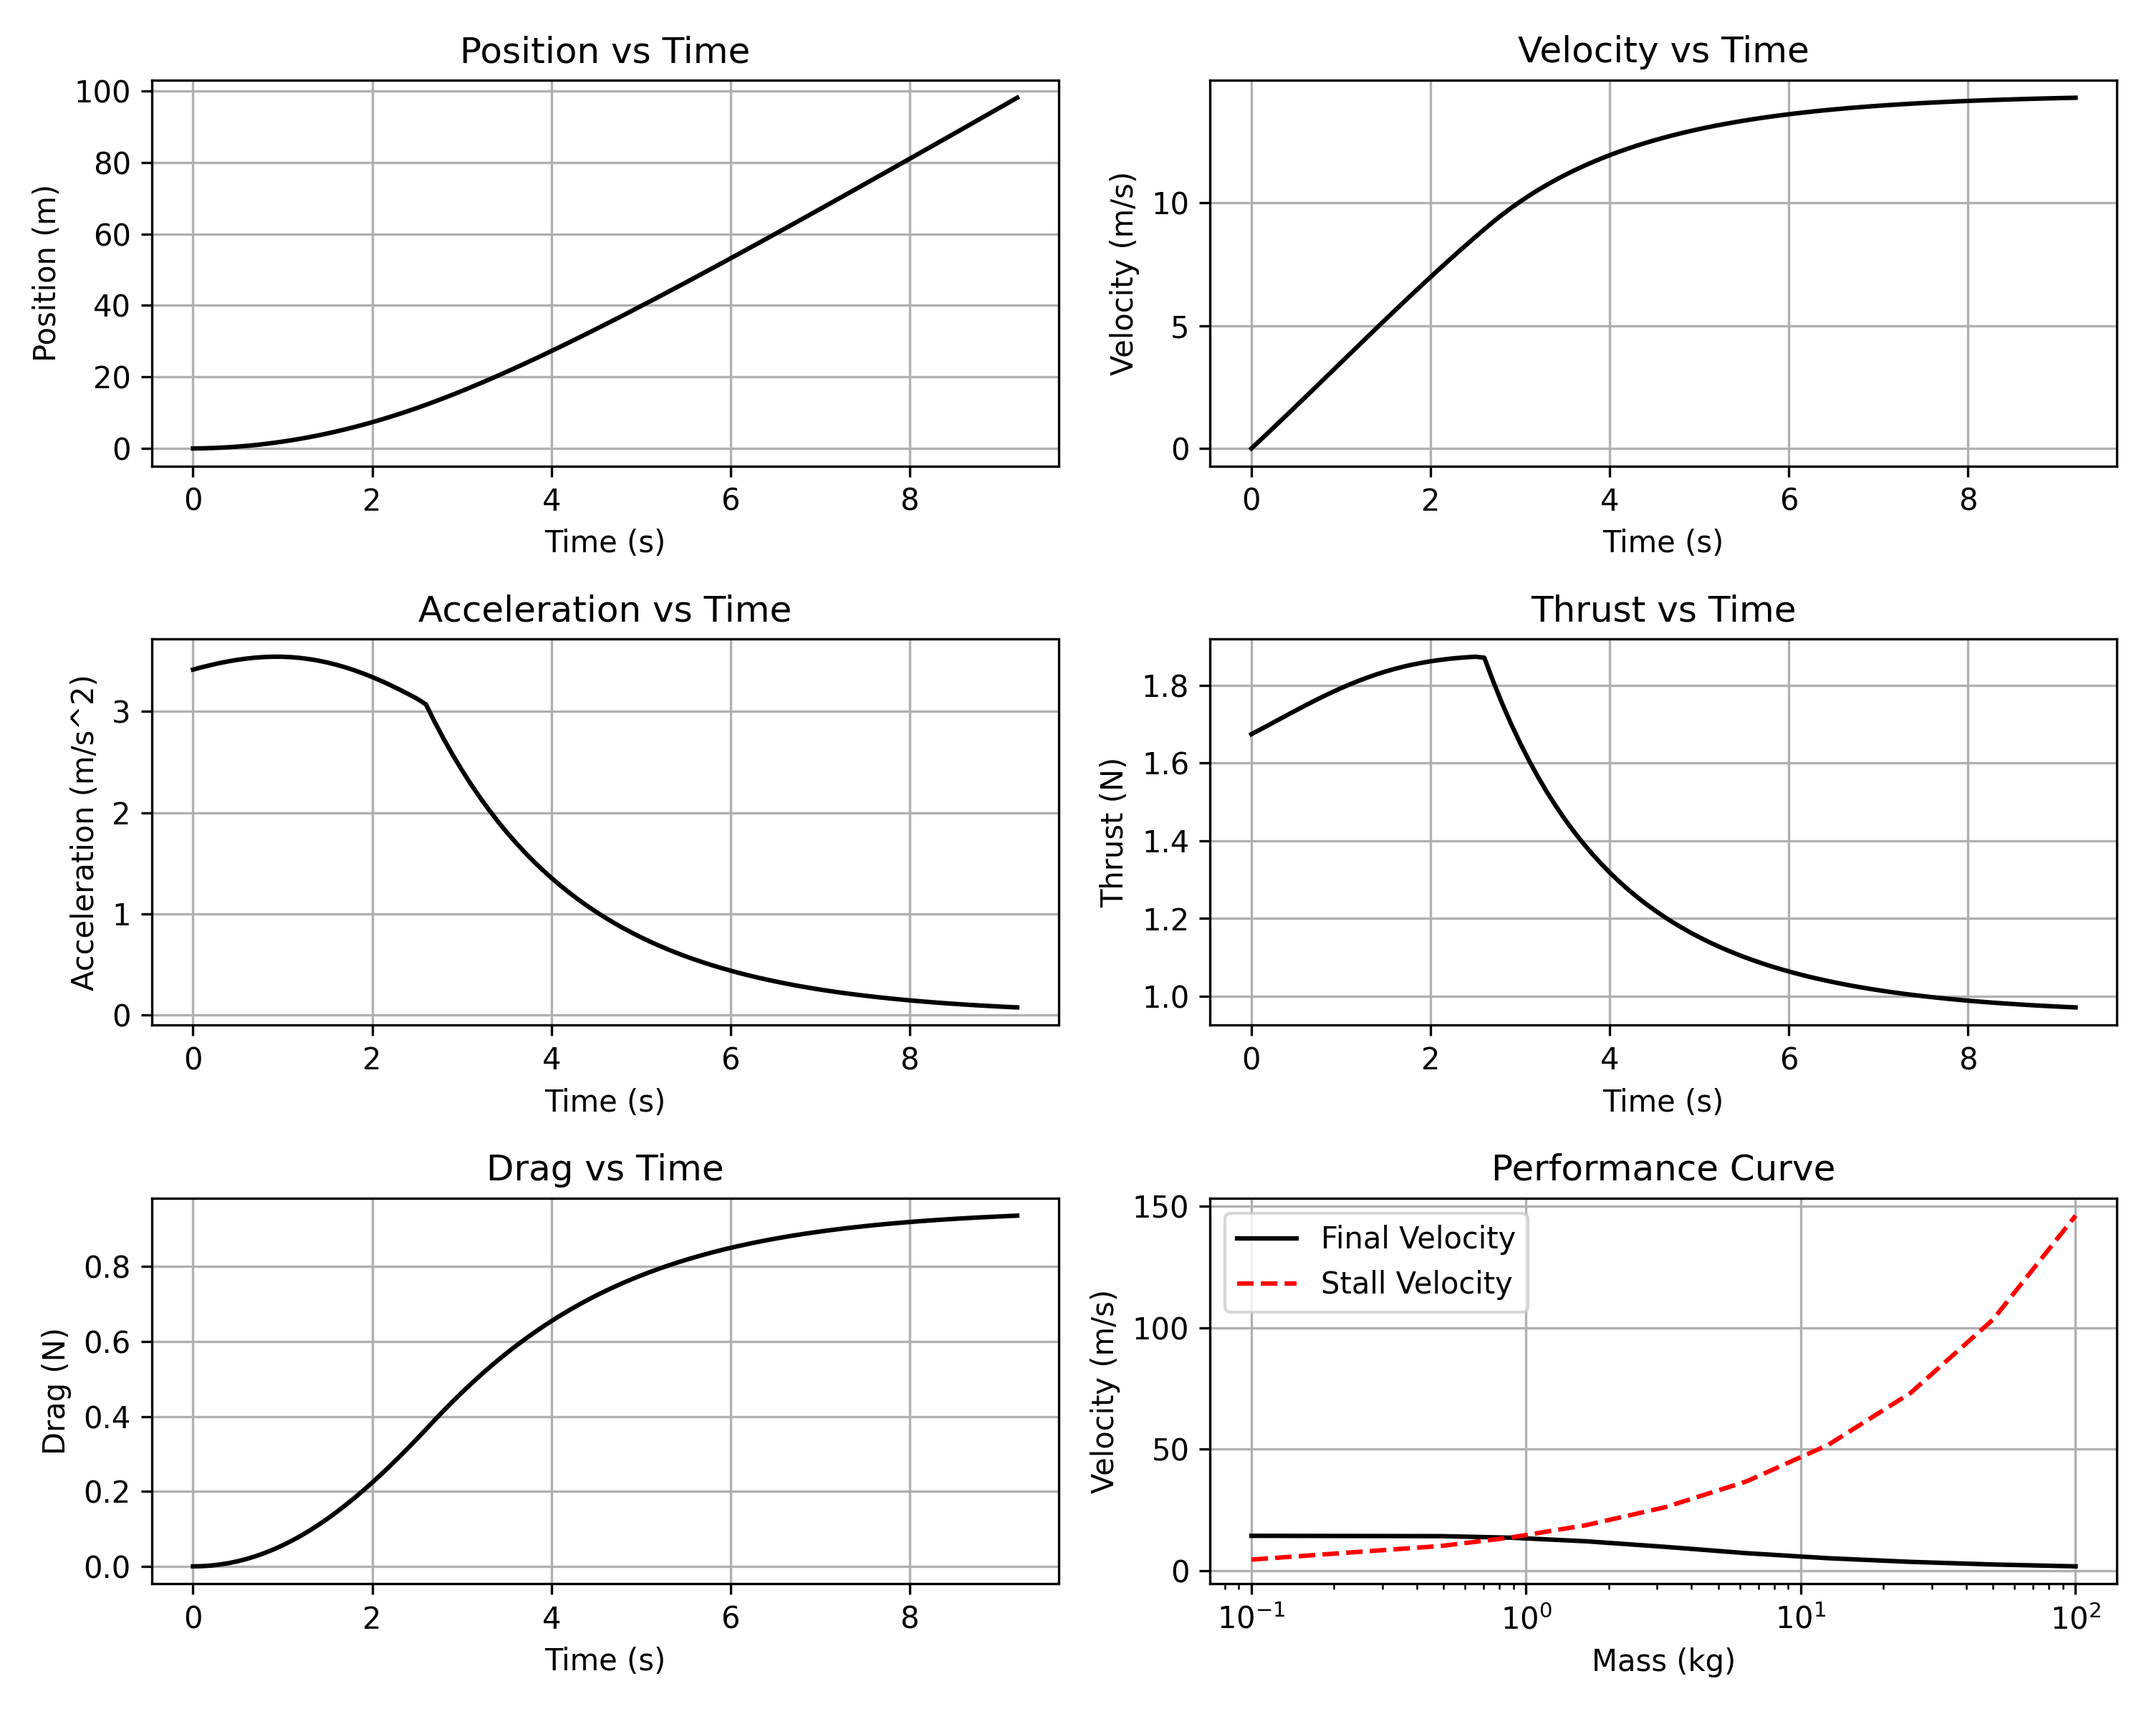
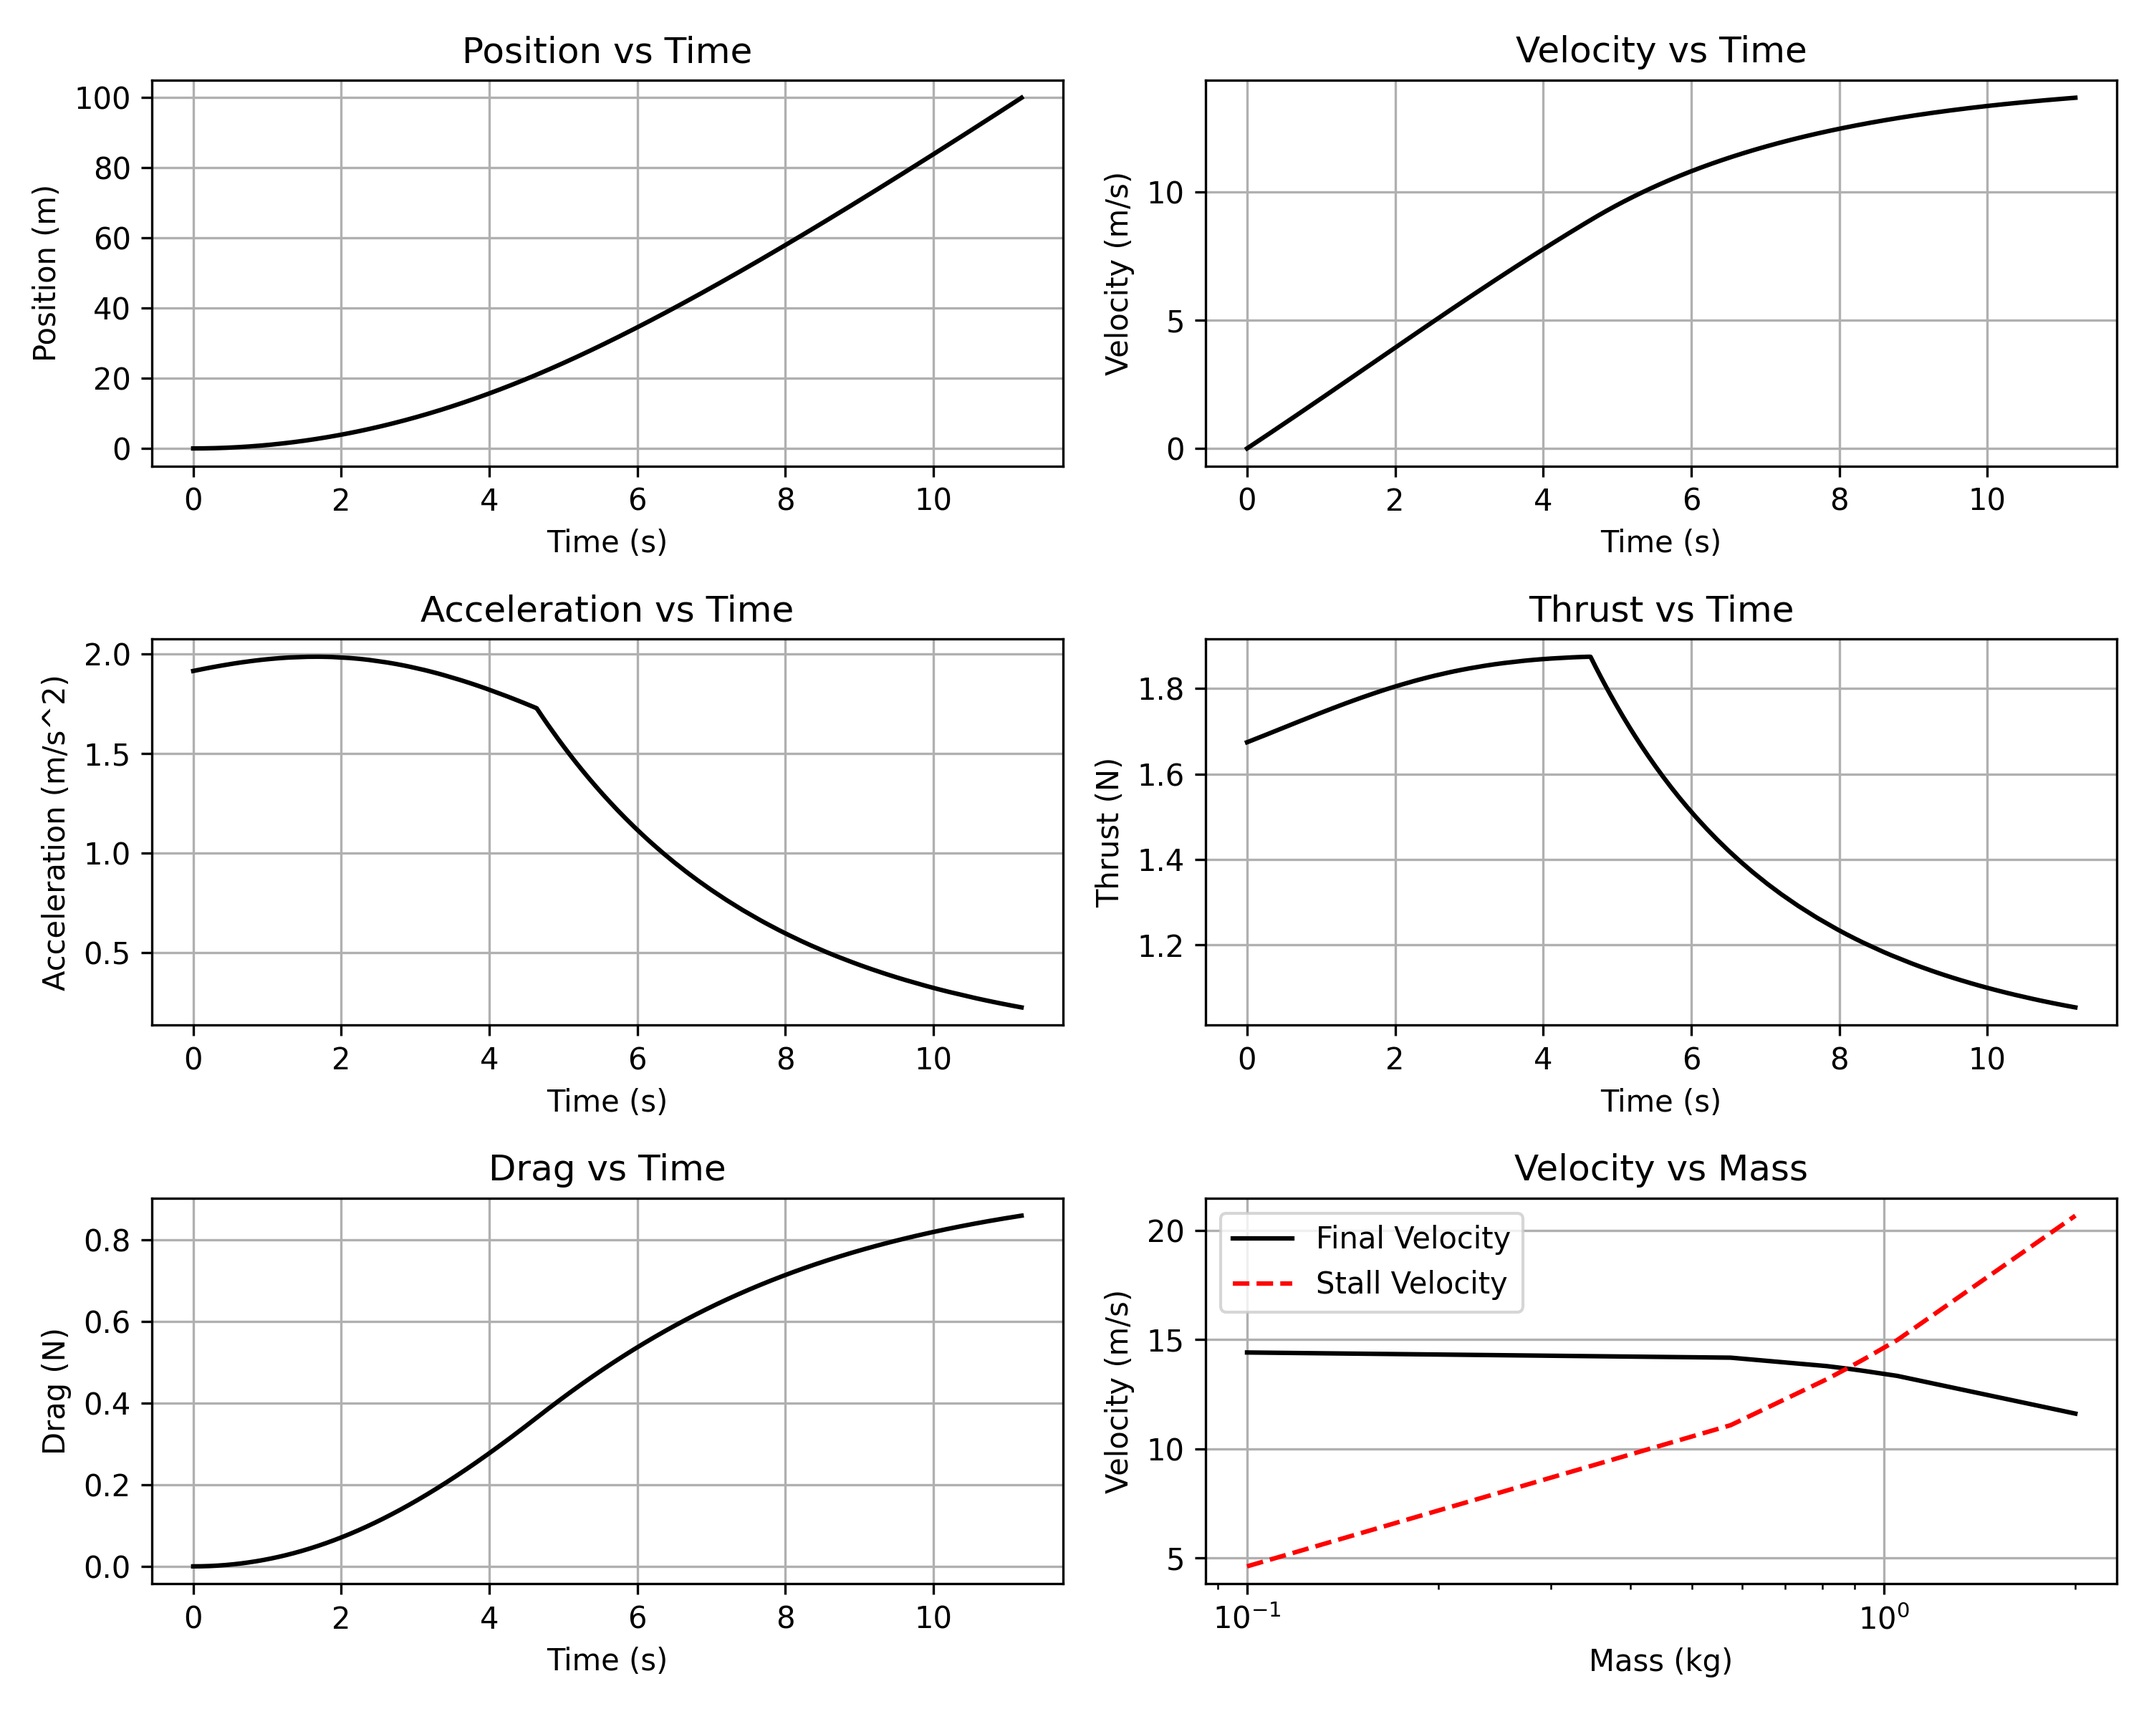
Updated use case

diff --git a/README.md b/README.md
@@ -49,17 +49,18 @@ Three parameters of the configuration work together to affect the duration and q
 
 ## Example Use Case
 
-> A plane boasts an `apc14x10e` propeller and a `CobraCM2217-26` motor. The plane must begin to take off before $100\ m$. We seek a maximum take-off mass (MTOW) so high that the plane begins to take off anytime beyond the $99\ m$ mark, but not before; this is our tolerance. The voltage at full throttle is $8.40\ V$. The plane's aerodynamic characteristics are approximated off of a similar plane to be $0.1$ for the drag coefficient, $1.0$ for the lift coefficient, and $0.075\ m^2$ for the reference area. Assume an air density of $1.225\ kg/m^3$, an acceleration due to gravity of $9.81\ m/s^2$, and variable drag. A time-step resolution of $0.1\ s$ is enough for our simulation.
+> A plane boasts an `apc14x10e` propeller and a `CobraCM2217-26` motor. The plane must take off by $100\ m$. We seek a MOTM within the nearest gram. The voltage at full throttle is $8.40\ V$. Based on a similar plane, we expect the mass of the plane to be between $0.1\ kg$ and $2.0\ kg$ and its aerodynamic characteristics approximated to be $0.1$ for the drag coefficient, $1.0$ for the lift coefficient, and $0.075\ m^2$ for the reference area. Assume an air density of $1.225\ kg/m^3$, an acceleration due to gravity of $9.81\ m/s^2$, and variable drag.
 
-For this problem, the configuration file should look something like the snippet shown below. We set `null` for `true_airspeed` to allow the optimizer to model variable drag. We could have picked a smaller mass range if we were confident about the mass range we expect the plane to be within. A tighter mass range around the MOTM also gives more meaningful graphs.
+For this problem, the configuration file should look something like the snippet shown below. We set `null` for `true_airspeed` to allow the optimizer to model variable drag, otherwise the drag will be constant. For the `timestep_size`, we should pick values based on our intuition. In this case, we think a `timestep_size` of $0.1\ s$ will suffice.
 
 ```json
 {
     "propeller_file": "propeller_files/apc14x10e",
     "motor_file": "motor_files/CobraCM2217-26",
-    "timestep_resolution": 0.1,
-    "mass_range": [0.1, 100],
-    "cutoff_displacement": [99.0, 100.0],
+    "timestep_size": 0.1,
+    "mass_range": [0.1, 2.0],
+    "arithmetic_precision": null,
+    "takeoff_displacement": 100.0,
     "setpoint_parameters": {
         "velocity": null,
         "voltage": 8.4,
@@ -81,13 +82,33 @@ For this problem, the configuration file should look something like the snippet 
 }
 ```
 
-Running the optimization with the default flags (3 worker processes) takes 8 epochs in total, around a minute (depending on your system), yielding a $v_{stall} = 10.23\ m/s$ and $m_{max} = 0.490\ kg$, as well as the dynamic analysis plots that follow. An important point is that the displacement range defines the **tolerance** that the optimization solution must satisfy. Picking a more extreme displacement range such as `[99.9, 100.0]` would indicate that we want to squeeze so much mass onto the plane as we can, to the point where we push the plane to lift off beyond $99.9\ m$ but (still) before $100.0\ m$. Though this level of (in)tolerance is clearly too extreme for most applications, it can make a difference in the solution. **Note** that before attempting this next part, set the mass range to `[0.1, 1.0]` to speed up the simulation.
+Running the optimization with the default flags (3 worker processes) displays the following final output and saves some dynamic analysis plots.
+
+```bash
+Optimizing for MTOW | Config[config]: m=[0.100, 2.000] kg ~ x=100.0 m | Elapsed: 00:31 | Epoch: 12
+Process 0 | m = 0.877 kg [t = 11.20 s | x = 100.82 m | v = 13.69 m/s | a = 0.22 m/s^2 | T = 1.05 N | D = 0.86 N]
+Process 1 | m = 0.877 kg [t = 11.20 s | x = 100.79 m | v = 13.69 m/s | a = 0.22 m/s^2 | T = 1.05 N | D = 0.86 N]
+Process 2 | m = 0.877 kg [t = 11.20 s | x = 100.76 m | v = 13.69 m/s | a = 0.22 m/s^2 | T = 1.05 N | D = 0.86 N]
+[WARNING] MTOM found may not be accurate: simulation timestep size (0.1) is too large.
+[INFO] STALL_VELOCITY = 13.681 m/s | MTOM = 0.877 kg | LIFTOFF_DISTANCE = 100.81783505059695 m
+```
+
+The output demonstrates the importance of the `timestep_size` value. Here, the optimizer is warning us that although a MOTM was found, it may not be accurate as it could only guarantee that the plane is at takeoff by $100.81\ m$, which is above the `takeoff_displacement` we specified. In order to improve our result, let's try decreasing the `timestep_size` to $0.01\ s$. As you can see from the output, the simulation took five times as long and gave us a more accurate result. Though the result is still not perfectly accurate, it suffices for this example, given how close the final liftoff distance was. If the result is deemed unacceptable, we could either further reduce the `timestep_size` and wait longer, or we could reduce the `takeoff_displacement` specified in the configuration file to artificially limit the optimizer.
+
+```bash
+Optimizing for MTOW | Config[config]: m=[0.100, 2.000] kg ~ x=100.0 m | Elapsed: 04:07 | Epoch: 12
+Process 0 | m = 0.875 kg [t = 11.19 s | x = 100.01 m | v = 13.67 m/s | a = 0.22 m/s^2 | T = 1.05 N | D = 0.86 N]
+Process 1 | m = 0.875 kg [t = 11.20 s | x = 100.12 m | v = 13.67 m/s | a = 0.22 m/s^2 | T = 1.05 N | D = 0.86 N]
+Process 2 | m = 0.876 kg [t = 11.20 s | x = 100.09 m | v = 13.67 m/s | a = 0.22 m/s^2 | T = 1.05 N | D = 0.86 N]
+[WARNING] MTOM found may not be accurate: simulation timestep size (0.01) is too large.
+[INFO] STALL_VELOCITY = 13.667 m/s | MTOM = 0.875 kg | LIFTOFF_DISTANCE = 100.11569937380077 m
+```
+
+The graphs obtained from this last run are shown below. The bottom-right graph in particular provides a summary of the optimization. The point at and to the right of where the final velocity and stall velocity curves intersect represents the danger zone, where the mass of the plane leaves it unable to accelerate beyond the stall velocity by the takeoff displacement, which is required for the plane to take off.
 
 <div style="text-align: center;">
     <img src='docs/readme.png' alt='Dynamic Analysis Plots' width='800' />
 </div>
-
-Attempting the extreme displacement range for the same configuration file reveals that the plane is actually capable of carrying close to $0.877\ kg$ and still taking off before $100\ m$, which is a considerable difference from the number we previously obtained! If you actually attempt a lower bound of $99.6\ m$, the simulation will quickly end with a slightly improved MTOM of $0.550\ kg$. Increase the lower bound to $99.7\ m$ and the simulation will take around 50x longer, eventually giving you the $0.877\ kg$ figure. Sometimes, as in this case, finding an MTOM within a specific tolerance given float64 precision is impossible. Even so, the result can be used, provided that the user isn't insistent on their selected tolerance. But picking a low tolerance is also risky, as you're pushing the plane's takeoff closer and closer towards the cutoff distance. In a sense, the displacement tolerance is a safety buffer. So it's a double-edged sword; you're balancing safety against capacity.
 
 ## Project Structure
 
